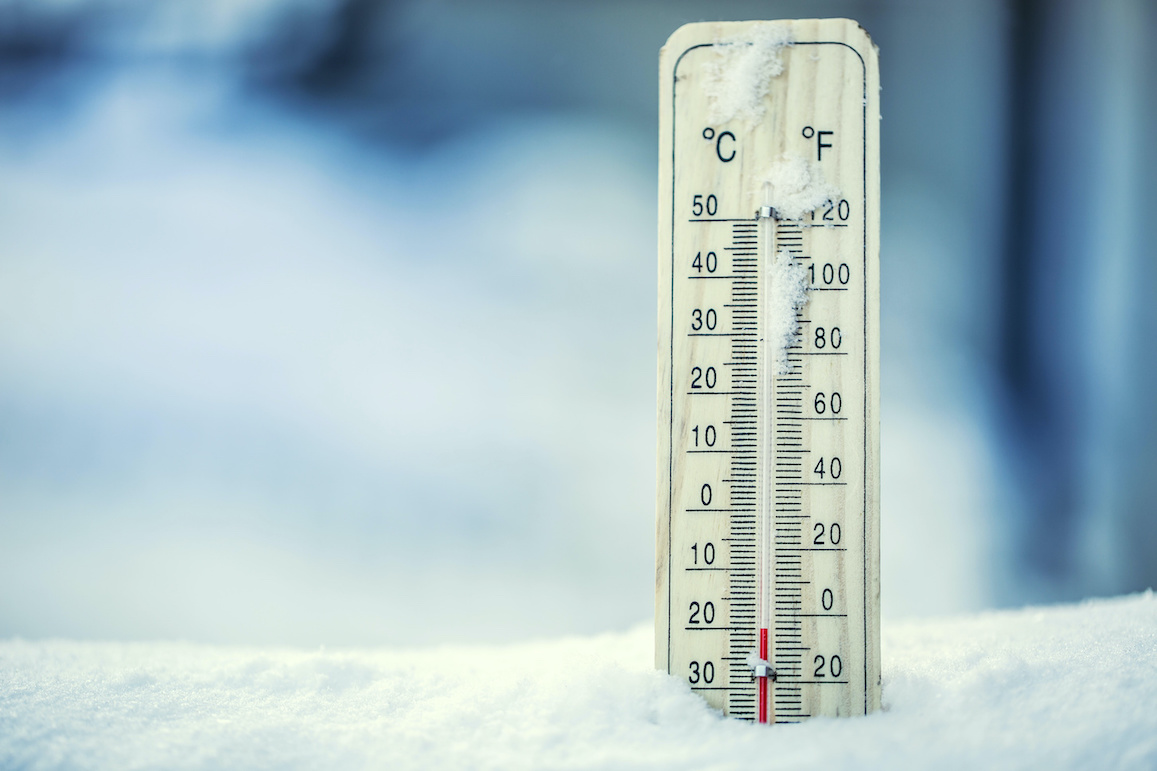
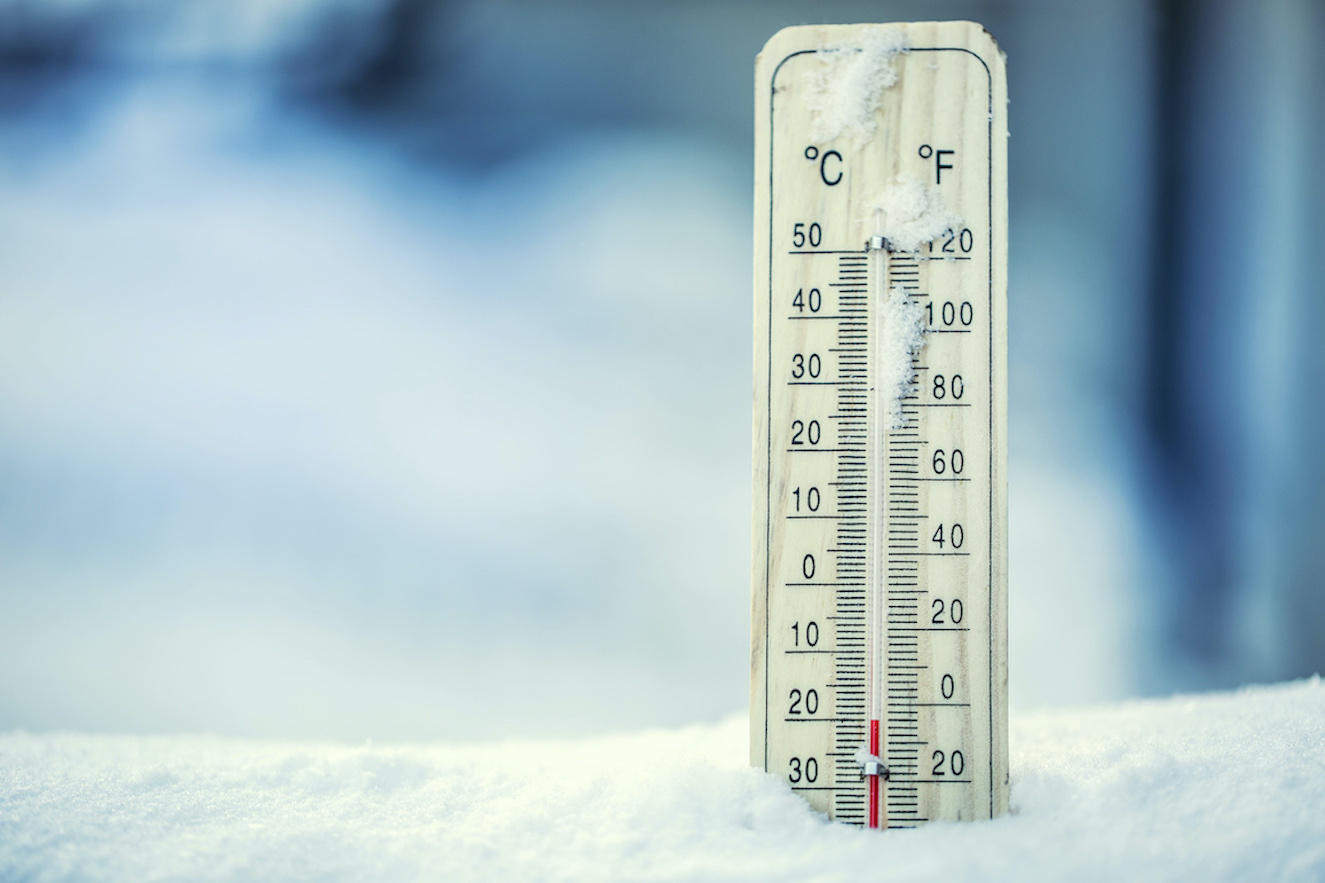
AdobeStock_132406481 adjust size

diff --git a/index.html b/index.html
@@ -1,6 +1,6 @@
 <!DOCTYPE html>
 
-<html>
+<html lang="en">
   <head>
     <title>Savana Sathre</title>
     <meta charset="utf-8" />
@@ -81,7 +81,7 @@
                   href="https://www.minidumpster.net"
                   target="_blank"
                   class="image"
-                  ><img src="images/shutterstock_710488291.jpg" alt=""
+                  ><img src="images/shutterstock_710488291.jpg" alt="image1"
                 /></a>
                 <h3 class="major">Mini Dumpster</h3>
                 <p>
@@ -100,7 +100,7 @@
                   href="https://deliciousrestaurant.netlify.com/"
                   target="_blank"
                   class="image"
-                  ><img src="images/healthy-food.jpg" alt=""
+                  ><img src="images/healthy-food.jpg" alt="image2"
                 /></a>
                 <h3 class="major">Restaurant</h3>
                 <p>
@@ -119,7 +119,9 @@
                   href="https://savana-s.github.io/Digital-Clock/"
                   target="_blank"
                   class="image"
-                  ><img src="images/volkan-olmez-73767-unsplash.jpg" alt=""
+                  ><img
+                    src="images/volkan-olmez-73767-unsplash.jpg"
+                    alt="image3"
                 /></a>
                 <h3 class="major">Time Keeper</h3>
                 <p>
@@ -138,7 +140,7 @@
                   href="https://savana-s.github.io/Temperature-Converter/"
                   target="_blank"
                   class="image"
-                  ><img src="images/AdobeStock_132406481.jpeg" alt=""
+                  ><img src="images/AdobeStock_132406481.jpeg" alt="image4"
                 /></a>
                 <h3 class="major">Temperature Converter</h3>
                 <p>
